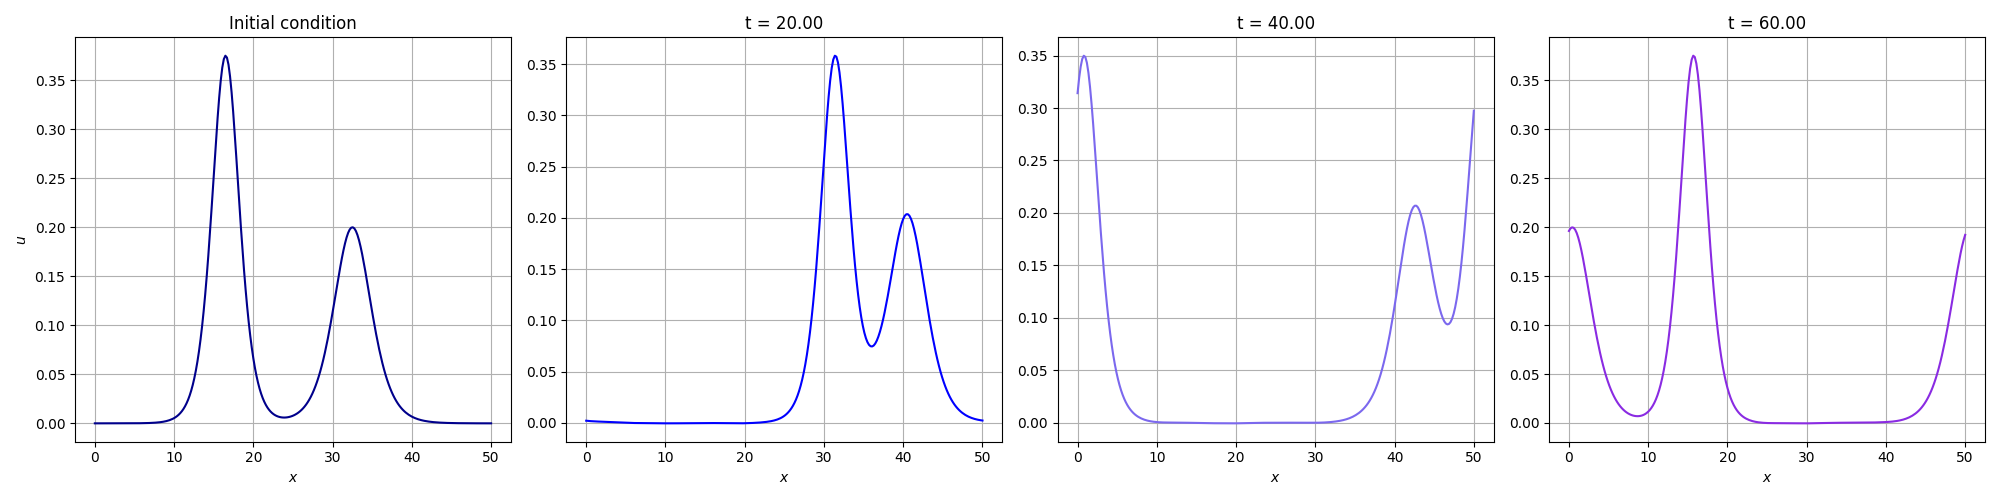
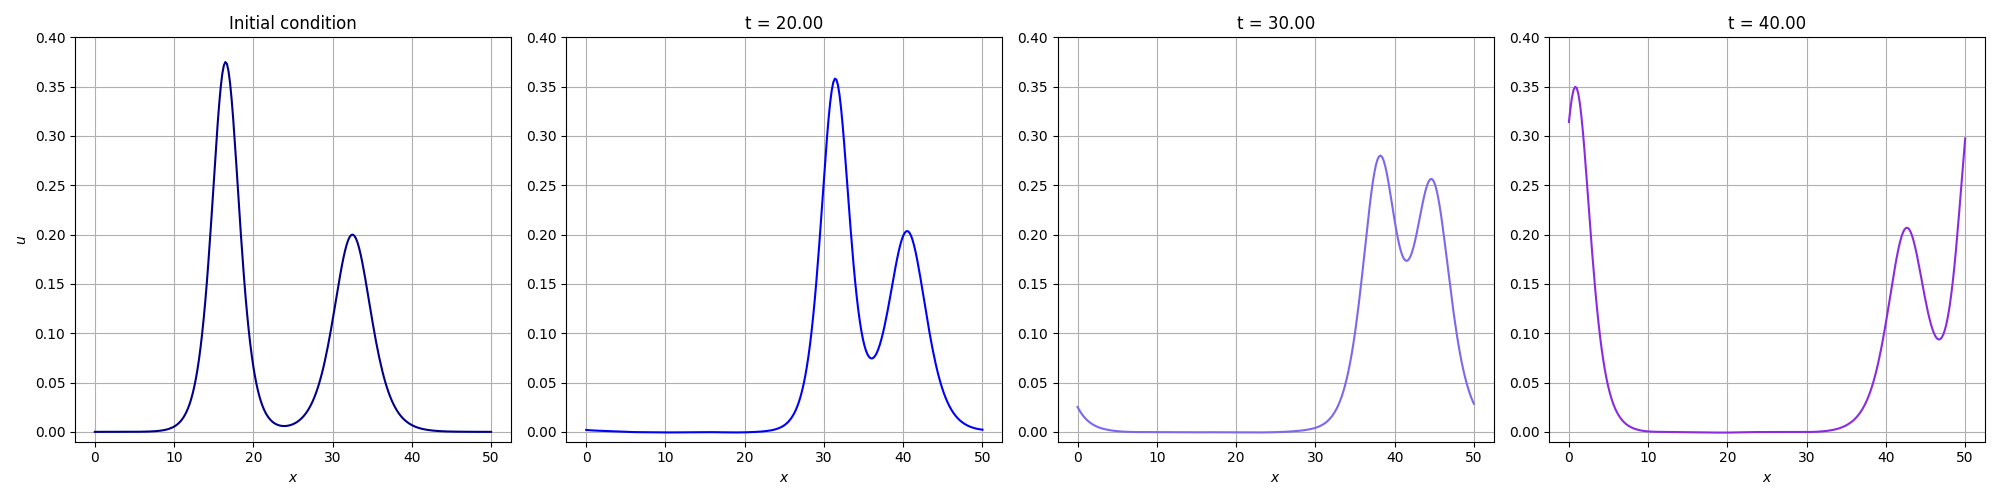
update veS13

diff --git a/Python codes/soliton_KdV.py b/Python codes/soliton_KdV.py
@@ -79,21 +79,25 @@ ax[0].plot(x, u_history[0], color = "darkblue")
 ax[0].set_title('Initial condition')
 ax[0].set_xlabel('$x$')
 ax[0].set_ylabel('$u$')
+ax[0].set_ylim(-0.01, 0.4)
 ax[0].grid()
 
-ax[1].plot(x, u_history[steps//10], color = "blue")
-ax[1].set_title('t = {:.2f}'.format(t_max / 10))
+ax[1].plot(x, u_history[2*steps//20], color = "blue")
+ax[1].set_title('t = {:.2f}'.format(2*t_max / 20))
 ax[1].set_xlabel('$x$')
+ax[1].set_ylim(-0.01, 0.4)
 ax[1].grid()
 
-ax[2].plot(x, u_history[2*steps//10], color = "mediumslateblue")
-ax[2].set_title('t = {:.2f}'.format(t_max / 10 * 2))
+ax[2].plot(x, u_history[3*steps//20], color = "mediumslateblue")
+ax[2].set_title('t = {:.2f}'.format(3*t_max / 20))
 ax[2].set_xlabel('$x$')
+ax[2].set_ylim(-0.01, 0.4)
 ax[2].grid()
 
-ax[3].plot(x, u_history[3*steps//10], color = "blueviolet")
-ax[3].set_title('t = {:.2f}'.format(t_max / 10 * 3))
+ax[3].plot(x, u_history[4*steps//20], color = "blueviolet")
+ax[3].set_title('t = {:.2f}'.format(4*t_max / 20))
 ax[3].set_xlabel('$x$')
+ax[3].set_ylim(-0.01, 0.4)
 ax[3].grid()
 
 plt.tight_layout()
@@ -150,4 +154,4 @@ def animate(i):
 anim = FuncAnimation(fig_anim, animate, frames=steps//500, blit=True, repeat=True);
 
 # Save the animation as an MP4 file
-anim.save('soliton.gif', writer='pillow', fps=25)
+anim.save('soliton.mp4', writer='pillow', fps=25)

diff --git a/README.md b/README.md
@@ -32,13 +32,13 @@ However we can still use the split-step idea. In this case we first perform an u
 
 1) given $u(x, t)$, compute the Fourier transform
 
-$$ \hat{u}_{k}(t) = \mathscr{F} \[u(x, t)\] $$
+    $$ \hat{u}\_{k}(t) = \mathscr{F} [u(x, t)] $$
 
-3) advance the linear part by $\Delta t$ computing the partial update in spectral space
+2) advance the linear part by $\Delta t$ computing the partial update in spectral space
 
-$$ \hat{g}\_{}(t ; \Delta t) = e^{i\left(\frac{2 \pi}{L} k\right)^{3} \Delta t} \hat{u}_{k}(t) $$
+    $$ \hat{g}\_{}(t ; \Delta t) = e^{i\left(\frac{2 \pi}{L} k\right)^{3} \Delta t} \hat{u}_{k}(t) $$
 
-6) apply the inverse Fourier transform obtaining the partial update in physical space, compute its square, and compute the spatial derivative of that with the spectral method
+3) apply the inverse Fourier transform obtaining the partial update in physical space, compute its square, and compute the spatial derivative of that with the spectral method
 
 $$ \begin{aligned}
 g(x, t ; \Delta t) & =\mathscr{F}^{-1}\left[\hat{g}_{k}(t ; \Delta t)\right] \\
